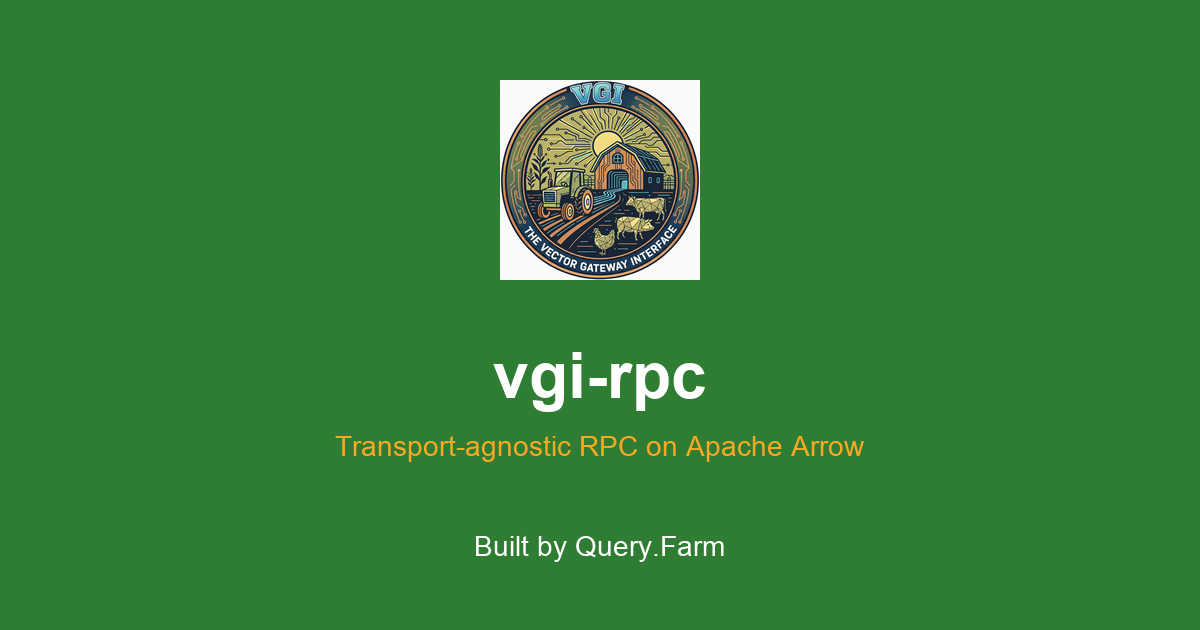
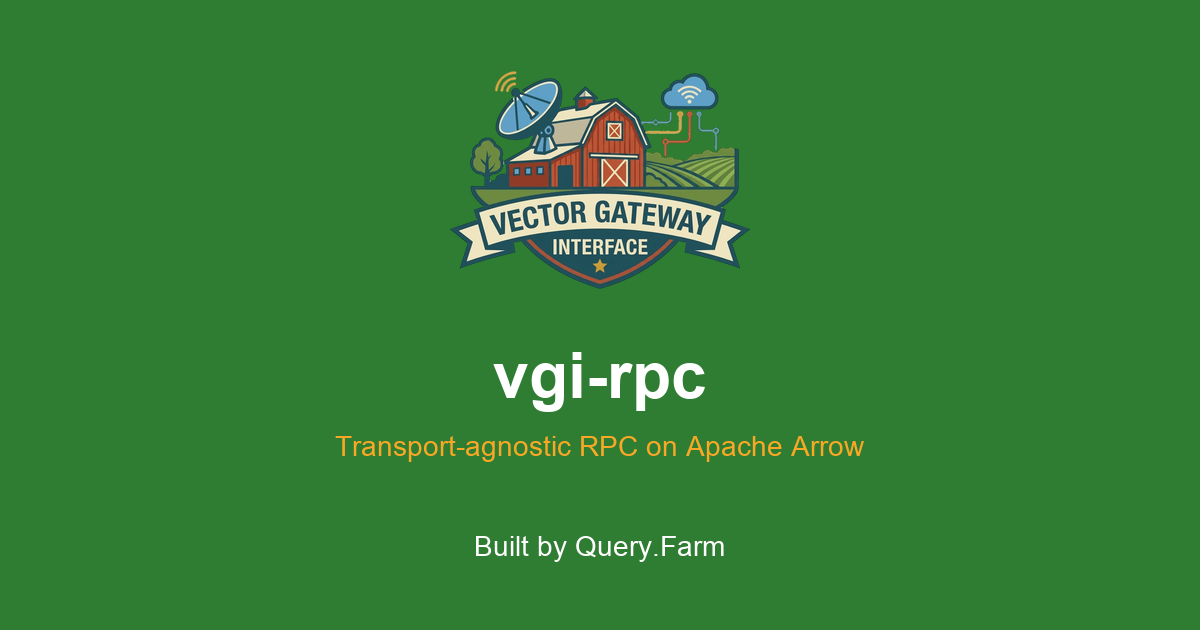
feat(brand): replace the circular seal with the shield mark
Every brand asset carried the old circular VGI seal — including the logo the
landing, describe, 404 and 401 pages request by URL. The shield artwork was
already in the repo as logo-shield.png but only the README pointed at it, and
it sat on an opaque white background.

The master (docs/assets/logo-master.png, 1197x880) is now committed and every
other asset is cut from it by scripts/regenerate_logo_assets.py, so a future
artwork change is one command rather than eight hand edits that drift.

Keying the background is a global near-white threshold rather than a fill from
the border. Keying only what the border reaches leaves the enclosed gaps
opaque — the sky between the tree and the barn wall, the holes between the
cloud's connector traces — which read as white specks on the cream page and
glare on a dark one. The mark's lightest ink is cream at min-channel 193, far
below the threshold, so nothing real is at risk; the script reports how much
keyed area was enclosed rather than marginal, so a future master carrying
genuine white ink shows up as a large number instead of a few hundred pixels.
Edge pixels get partial alpha from their distance to white and are then
un-premultiplied, so the mark composites back over white exactly as the master
did instead of wearing a pale outline on a coloured background.

The CSS had to move with it. Four rules sized the logo as a square and clipped
it round — `width/height` both fixed, `border-radius: 50%`, a rectangular
[…]

Changed region(s): [[0.37, 0.1206, 0.6167, 0.4524]]

diff --git a/docs/stylesheets/extra.css b/docs/stylesheets/extra.css
@@ -222,25 +222,29 @@
   margin-bottom: 1rem;
 }
 
+/* The mark is a landscape shield on transparency: sized by width with the
+   height left to follow, and shadowed with a drop-shadow that traces the alpha
+   silhouette. A box-shadow would outline the image box, not the shield. */
 .hero-logo-img {
-  border-radius: 50%;
-  box-shadow: 0 4px 24px rgba(0, 0, 0, 0.18);
+  filter: drop-shadow(0 4px 18px rgba(0, 0, 0, 0.22));
   transition: transform 0.3s ease;
-  width: 200px;
-  height: 200px;
+  width: 320px;
+  height: auto;
 }
 
 .hero-logo-img:hover {
   transform: scale(1.05);
 }
 
-/* Header logo — bigger than default, clipped to circle */
+/* Header logo — bigger than default. `object-fit: cover` in a 3rem square used
+   to crop the round seal harmlessly; on the landscape shield it would cut off
+   the banner, so the box follows the mark instead of the mark being cropped
+   to the box. */
 .md-header__button.md-logo img,
 .md-nav__button.md-logo img {
-  height: 3rem;
-  width: 3rem;
-  border-radius: 50%;
-  object-fit: cover;
+  height: 2.4rem;
+  width: auto;
+  object-fit: contain;
 }
 
 /* ── D2 diagrams — constrain size and center ── */

diff --git a/scripts/regenerate_logo_assets.py b/scripts/regenerate_logo_assets.py
@@ -1,0 +1,263 @@
+#!/usr/bin/env python3
+# © Copyright 2025-2026, Query.Farm LLC - https://query.farm
+# SPDX-License-Identifier: Apache-2.0
+
+r"""Regenerate every brand asset in ``docs/assets`` from one master logo.
+
+The master is committed as ``docs/assets/logo-master.png``: the shield mark on
+a white background, at the highest resolution we have.  Every other asset is
+derived, so a new master is a one-command reroll rather than eight hand edits
+that drift apart:
+
+    uv run --with pillow --with numpy python scripts/regenerate_logo_assets.py
+
+Pass ``--master PATH`` to cut the assets from a different source, which also
+replaces the committed master.
+
+Two things here are less obvious than they look.
+
+**Background is every near-white pixel, not just the outer margin.** Keying
+only what the border can reach leaves the enclosed gaps opaque — the sky
+between the tree and the barn wall, the holes between the cloud's connector
+traces — which read as white specks on the cream page and glare on a dark one.
+The mark's lightest real ink is cream at min-channel 193, far below the
+threshold, so a global key cannot eat it.  That margin is not guaranteed for
+some future master, so the script reports how much keyed area was *enclosed*
+rather than border-connected: a master with genuine white ink shows up there
+as a large number instead of a few hundred stray pixels.
+
+**Antialiased edges need partial alpha, not a hard cut.** The outline blends
+into white over 1-2px.  Those pixels get alpha from how far they are from
+white, and their colour is then un-premultiplied so the result composites back
+over white exactly as the master did — and degrades gracefully over the cream
+page background rather than showing a white fringe.
+"""
+
+from __future__ import annotations
+
+import argparse
+import shutil
+from pathlib import Path
+
+import numpy as np
+from PIL import Image
+
+# Repository paths.
+_REPO = Path(__file__).resolve().parent.parent
+_ASSETS = _REPO / "docs" / "assets"
+_MASTER = _ASSETS / "logo-master.png"
+
+# A pixel is "background candidate" when every channel is at least this.  The
+# master's white is not perfectly flat (252-255), so an exact-white test leaves
+# a speckled halo.
+_WHITE_FLOOR = 244
+
+# How far the partial-alpha band reaches into the mark from the keyed region.
+# Two pixels covers the master's antialiasing; more would eat into solid ink.
+_EDGE_BAND = 2
+
+# Apple composites a transparent home-screen icon onto black on some iOS
+# versions, so that one asset stays opaque.  Cream matches the page background
+# the mark was drawn for.
+_ICON_BACKGROUND = (250, 248, 240)
+
+# The social card is regenerated by replacing just the logo block, so the text
+# rendered into it stays byte-identical rather than being re-typeset with
+# whatever fonts happen to be installed.
+_CARD_LOGO_CENTER = (600, 180)
+_CARD_LOGO_WIDTH = 300
+
+
+def _connected_to_border(candidate: np.ndarray) -> np.ndarray:
+    """Return the subset of *candidate* reachable from the image border.
+
+    Args:
+        candidate: 2-D bool array marking every near-white pixel.
+
+    Returns:
+        A 2-D bool array: the background proper, with interior white left out.
+
+    """
+    reached = np.zeros_like(candidate)
+    reached[0, :] = candidate[0, :]
+    reached[-1, :] = candidate[-1, :]
+    reached[:, 0] = candidate[:, 0]
+    reached[:, -1] = candidate[:, -1]
+
+    # Iterated 8-connected dilation clipped to the candidate set. Simple enough
+    # to trust by reading, and a few seconds on a 1200x900 master.
+    while True:
+        grown = reached.copy()
+        for shift, axis in ((1, 0), (-1, 0), (1, 1), (-1, 1)):
+            grown |= np.roll(reached, shift, axis=axis)
+        # Diagonals, so a 1px-wide gap between two shapes still lets the fill through.
+        for dy in (-1, 1):
+            for dx in (-1, 1):
+                grown |= np.roll(np.roll(reached, dy, axis=0), dx, axis=1)
+        grown &= candidate
+        if np.array_equal(grown, reached):
+            return reached
+        reached = grown
+
+
+def _dilate(mask: np.ndarray, radius: int) -> np.ndarray:
+    """Grow *mask* by *radius* pixels in 8-connectivity."""
+    out = mask.copy()
+    for _ in range(radius):
+        grown = out.copy()
+        for dy in (-1, 0, 1):
+            for dx in (-1, 0, 1):
+                grown |= np.roll(np.roll(out, dy, axis=0), dx, axis=1)
+        out = grown
+    return out
+
+
+def key_out_background(master: Image.Image) -> Image.Image:
+    """Replace the master's white background with transparency.
+
+    Args:
+        master: The logo on a white background, in any mode.
+
+    Returns:
+        An RGBA image cropped to the mark's bounding box.
+
+    """
+    rgb = np.asarray(master.convert("RGB")).astype(np.float64)
+    background = rgb.min(axis=2) >= _WHITE_FLOOR
+    edge = _dilate(background, _EDGE_BAND) & ~background
+
+    # Enclosed keyed area is the tell that a master carries genuine white ink
+    # rather than gaps in the silhouette.  A few hundred pixels is the sky
+    # showing through the artwork; a few thousand means read the output before
+    # trusting it.
+    enclosed = int((background & ~_connected_to_border(background)).sum())
+    print(f"keyed {int(background.sum()):,} px, of which {enclosed:,} enclosed (gaps in the mark, not its margin)")
+
+    # Distance from white drives alpha in the edge band: solid ink is far from
+    # white and stays opaque, a pixel half-blended into the page is half
+    # transparent.  Keyed pixels snap to zero rather than inheriting the
+    # master's not-quite-white noise — otherwise the margin survives at alpha
+    # 1-3, invisible but enough to defeat the bounding-box crop below.
+    alpha = np.ones(rgb.shape[:2], dtype=np.float64)
+    alpha[background] = 0.0
+    alpha[edge] = 1.0 - rgb.min(axis=2)[edge] / 255.0
+
+    # Un-premultiply against white. Without this every edge keeps the white it
+    # was blended with and the mark wears a pale outline on a coloured page.
+    safe = np.maximum(alpha, 1e-6)[..., None]
+    straight = np.where(
+        alpha[..., None] > 0.0,
+        (rgb - (1.0 - safe) * 255.0) / safe,
+        0.0,
+    )
+
+    out = np.empty((*rgb.shape[:2], 4), dtype=np.uint8)
+    out[..., :3] = np.clip(straight, 0, 255).astype(np.uint8)
+    out[..., 3] = np.clip(alpha * 255.0, 0, 255).astype(np.uint8)
+    image = Image.fromarray(out, mode="RGBA")
+
+    # Crop the dead margin so every derived size is tight and predictable.
+    bbox = image.getbbox()
+    return image.crop(bbox) if bbox else image
+
+
+def _scaled_to_width(logo: Image.Image, width: int) -> Image.Image:
+    """Resample *logo* to *width*, preserving aspect ratio."""
+    height = round(logo.height * width / logo.width)
+    return logo.resize((width, height), Image.LANCZOS)
+
+
+def _letterboxed(logo: Image.Image, size: int, background: tuple[int, int, int] | None) -> Image.Image:
+    """Centre *logo* in a square canvas of *size*, padding rather than cropping.
+
+    Args:
+        logo: The transparent mark.
+        size: Side length of the square result.
+        background: Fill colour, or ``None`` for a transparent canvas.
+
+    Returns:
+        A square RGBA image.
+
+    """
+    # Inset slightly: a mark that touches the icon's edge reads as clipped.
+    fitted = _scaled_to_width(logo, round(size * 0.94))
+    if fitted.height > size:
+        fitted = fitted.resize((round(fitted.width * size / fitted.height), size), Image.LANCZOS)
+    canvas = Image.new("RGBA", (size, size), (*background, 255) if background else (0, 0, 0, 0))
+    canvas.alpha_composite(fitted, ((size - fitted.width) // 2, (size - fitted.height) // 2))
+    return canvas
+
+
+def _rebuild_social_card(logo: Image.Image, card_path: Path) -> None:
+    """Swap the logo block on the existing social card, leaving its text alone.
+
+    Args:
+        logo: The transparent mark.
+        card_path: The card to rewrite in place.
+
+    Raises:
+        FileNotFoundError: If the card is missing — it carries text this script
+            cannot re-typeset, so regenerating from scratch is not a fallback.
+
+    """
+    if not card_path.exists():
+        raise FileNotFoundError(f"{card_path} is required: the card's text cannot be regenerated from the master")
+    card = Image.open(card_path).convert("RGBA")
+    background = card.getpixel((0, 0))
+    assert isinstance(background, tuple)
+
+    fitted = _scaled_to_width(logo, _CARD_LOGO_WIDTH)
+    cx, cy = _CARD_LOGO_CENTER
+    # Paint out whatever occupied the block before, generously, then draw.
+    old = Image.new("RGBA", (max(_CARD_LOGO_WIDTH, 240) + 40, max(fitted.height, 240) + 40), background)
+    card.paste(old, (cx - old.width // 2, cy - old.height // 2))
+    card.alpha_composite(fitted, (cx - fitted.width // 2, cy - fitted.height // 2))
+    card.convert("RGB").save(card_path)
+
+
+def main() -> None:
+    """Cut every derived asset from the master and report what was written."""
+    parser = argparse.ArgumentParser(description=__doc__)
+    parser.add_argument(
+        "--master",
+        type=Path,
+        default=None,
+        help="Source logo on a white background. Replaces the committed master when given.",
+    )
+    args = parser.parse_args()
+
+    if args.master is not None:
+        shutil.copyfile(args.master, _MASTER)
+    if not _MASTER.exists():
+        parser.error(f"no master at {_MASTER}; pass --master PATH")
+
+    logo = key_out_background(Image.open(_MASTER))
+    print(f"master {Image.open(_MASTER).size} -> keyed mark {logo.size}")
+
+    # Full-resolution transparent mark. The README embeds this directly.
+    logo.save(_ASSETS / "logo-shield.png")
+
+    # Served on the landing / describe / 404 / 401 pages, which render it at
+    # 120-200 CSS px, and as the docs hero at 200. 600 keeps that 3x.
+    _scaled_to_width(logo, 600).save(_ASSETS / "logo-hero.png")
+
+    # mkdocs nav logo, rendered around 48px tall.
+    _scaled_to_width(logo, 512).save(_ASSETS / "logo.png")
+
+    _letterboxed(logo, 180, _ICON_BACKGROUND).save(_ASSETS / "apple-touch-icon.png")
+    _letterboxed(logo, 32, None).save(_ASSETS / "favicon-32x32.png")
+    _letterboxed(logo, 16, None).save(_ASSETS / "favicon-16x16.png")
+    _letterboxed(logo, 48, None).save(
+        _ASSETS / "favicon.ico",
+        sizes=[(16, 16), (32, 32), (48, 48)],
+    )
+
+    _rebuild_social_card(logo, _ASSETS / "social-card.png")
+
+    for name in [*sorted(p.name for p in _ASSETS.glob("*.png")), "favicon.ico"]:
+        path = _ASSETS / name
+        print(f"  {name:24} {Image.open(path).size!s:12} {path.stat().st_size // 1024:>5} KiB")
+
+
+if __name__ == "__main__":
+    main()

diff --git a/vgi_rpc/http/server/_pages.py b/vgi_rpc/http/server/_pages.py
@@ -31,8 +31,10 @@ _LANDING_HTML_TEMPLATE = (
          margin: 0 auto; padding: 60px 20px 0; color: #2c2c1e; text-align: center;
          background: #faf8f0; }}
   .logo {{ margin-bottom: 24px; }}
-  .logo img {{ width: 140px; height: 140px; border-radius: 50%;
-               box-shadow: 0 4px 24px rgba(0,0,0,0.12); }}
+  /* Sized by width with the height following, and a drop-shadow that traces
+     the alpha silhouette — see the note in http/_common.py. */
+  .logo img {{ width: 220px; height: auto;
+               filter: drop-shadow(0 4px 12px rgba(0,0,0,0.18)); }}
   h1 {{ color: #2d5016; margin-bottom: 8px; font-weight: 700; }}
   code {{ font-family: 'JetBrains Mono', monospace; background: #f0ece0;
           padding: 2px 6px; border-radius: 3px; font-size: 0.9em; color: #2c2c1e; }}
@@ -137,8 +139,8 @@ _DESCRIBE_HTML_TEMPLATE = (
   body {{ font-family: 'Inter', system-ui, -apple-system, sans-serif; max-width: 900px;
          margin: 0 auto; padding: 40px 20px 0; color: #2c2c1e; background: #faf8f0; }}
   .header {{ text-align: center; margin-bottom: 40px; }}
-  .header .logo img {{ width: 80px; height: 80px; border-radius: 50%;
-                       box-shadow: 0 3px 16px rgba(0,0,0,0.10); }}
+  .header .logo img {{ width: 130px; height: auto;
+                       filter: drop-shadow(0 3px 8px rgba(0,0,0,0.15)); }}
   .header h1 {{ margin-bottom: 4px; color: #2d5016; font-weight: 700; }}
   .header .subtitle {{ color: #6b6b5a; font-size: 1.1em; margin-top: 0; }}
   .header .meta {{ color: #6b6b5a; font-size: 0.9em; }}

diff --git a/vgi_rpc/http/_common.py b/vgi_rpc/http/_common.py
@@ -141,8 +141,12 @@ _ERROR_PAGE_STYLE = """\
          margin: 0 auto; padding: 60px 20px 0; color: #2c2c1e; text-align: center;
          background: #faf8f0; }}
   .logo {{ margin-bottom: 24px; }}
-  .logo img {{ width: 120px; height: 120px; border-radius: 50%;
-               box-shadow: 0 4px 24px rgba(0,0,0,0.12); }}
+  /* The mark is a landscape shield on transparency, so it is sized by width
+     with the height left to follow, and the shadow is a drop-shadow that
+     traces the alpha silhouette. A box-shadow would draw a rectangle's
+     shadow around a shield-shaped hole. */
+  .logo img {{ width: 170px; height: auto;
+               filter: drop-shadow(0 3px 10px rgba(0,0,0,0.18)); }}
   h1 {{ color: #2d5016; margin-bottom: 8px; font-weight: 700; }}
   code {{ font-family: 'JetBrains Mono', monospace; background: #f0ece0;
           padding: 2px 6px; border-radius: 3px; font-size: 0.9em; color: #2c2c1e; }}
